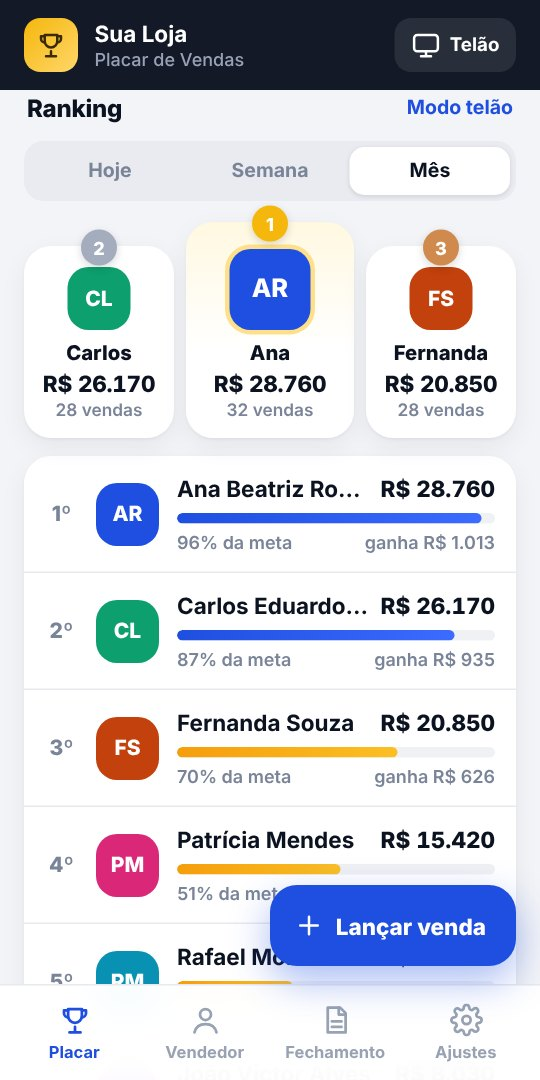
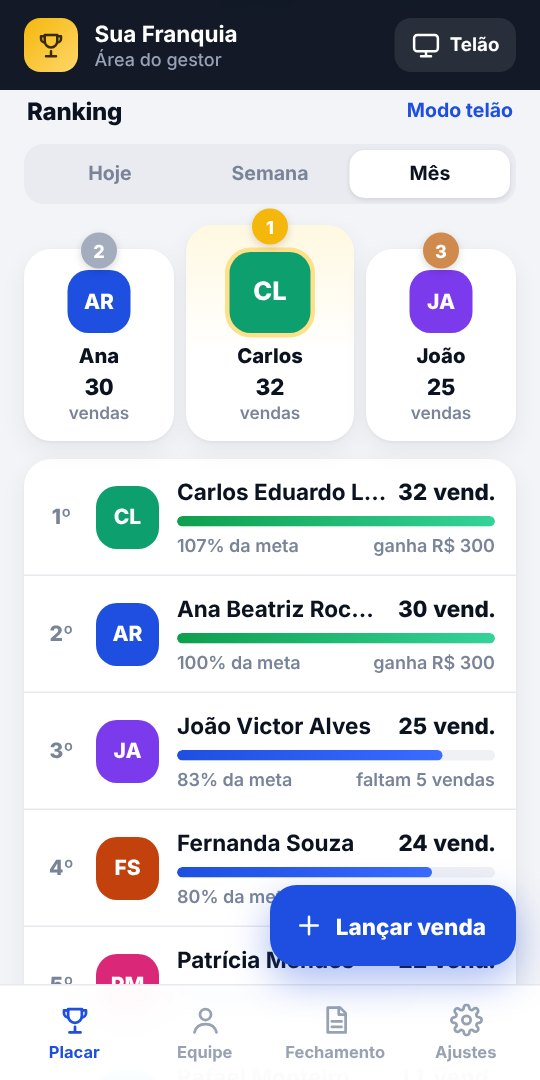
Portfólio: atualiza foto e texto do Placar de Vendas
Claude-Session: https://claude.ai/code/session_013yfqgoVN1tG9bSuem4CFJG

diff --git a/index.html b/index.html
@@ -197,7 +197,7 @@ h1,h2,h3{font-family:var(--f-disp);margin:0;text-wrap:balance;line-height:1.05}
   <article class="proj">
     <div class="tela foto"><img src="img/placar.jpg" alt="Tela real: Placar de Vendas" loading="lazy" width="540" height="1080"></div>
     <div><span class="tag">Gestão de equipe · em uso</span><h3>Placar de Vendas</h3>
-      <p>Vendedores lançam as vendas na rua e acompanham meta e comissão em tempo real. Junto, um simulador de premiação em que cada colaborador calcula o próprio bônus pelas regras do seu setor.</p>
+      <p>O vendedor lança a venda na rua e vê na hora quanto falta para bater a meta. O gestor acompanha a equipe toda pelo ranking e fecha o mês sabendo quanto pagar para cada um, sem planilha. Tem até modo telão para a TV da loja.</p>
       <ul><li>Instalável no celular</li><li>Ranking e metas</li><li>Comissão automática</li></ul><a class="ver" href="placar-vendas.html">Testar a demonstração →</a></div>
   </article>
   <article class="proj">
